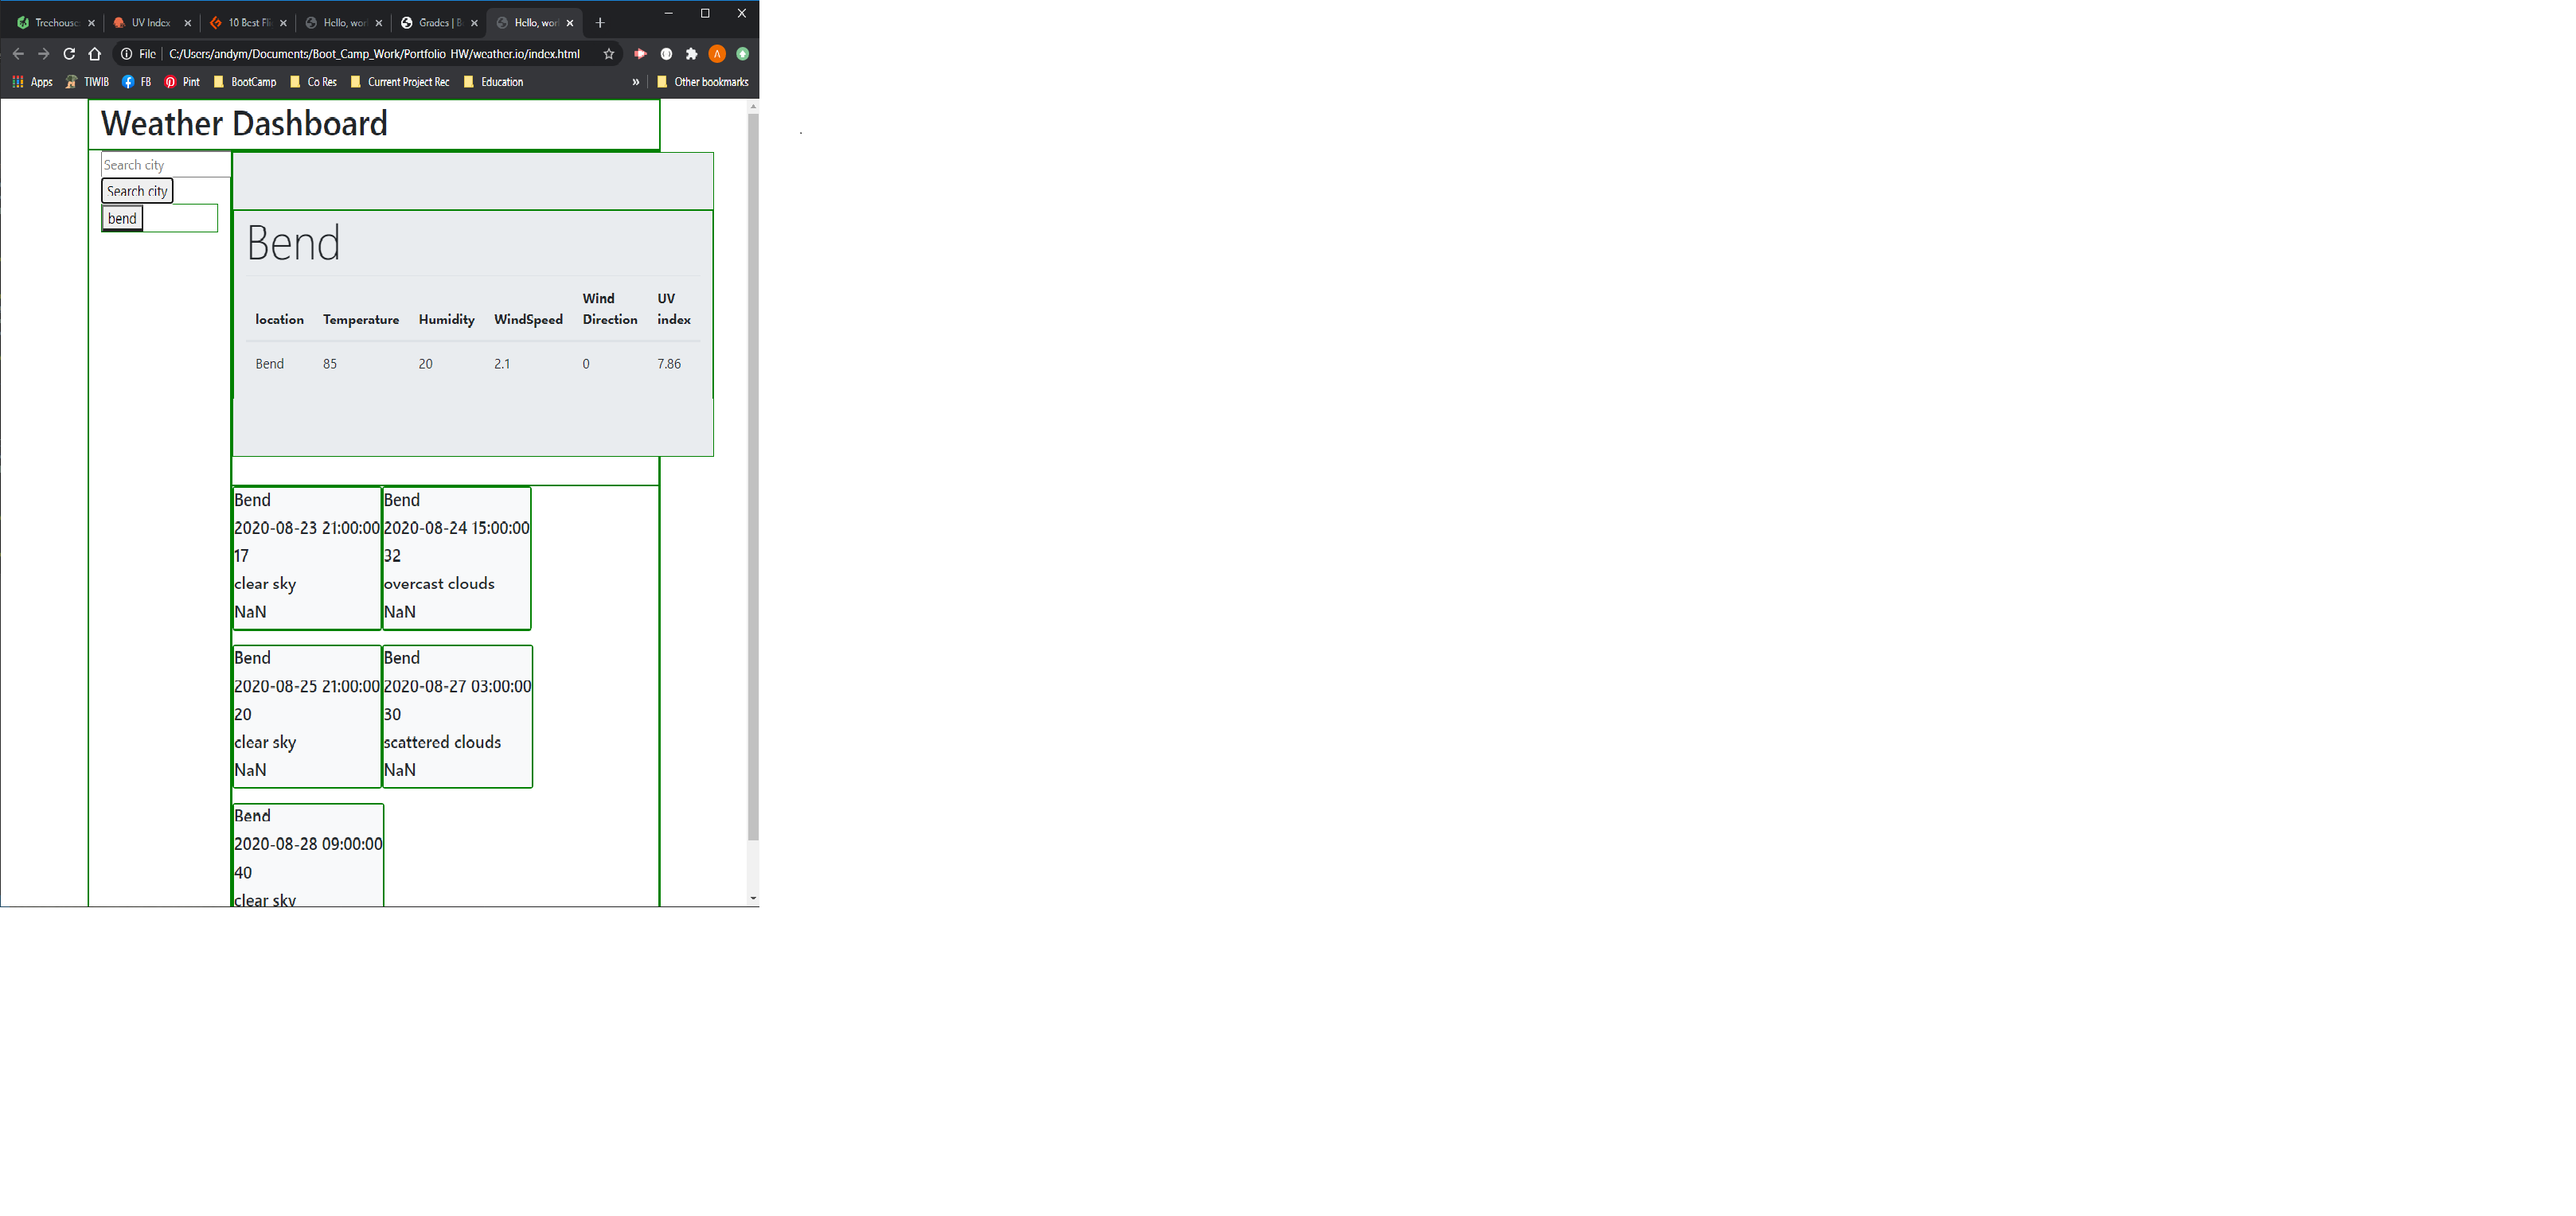
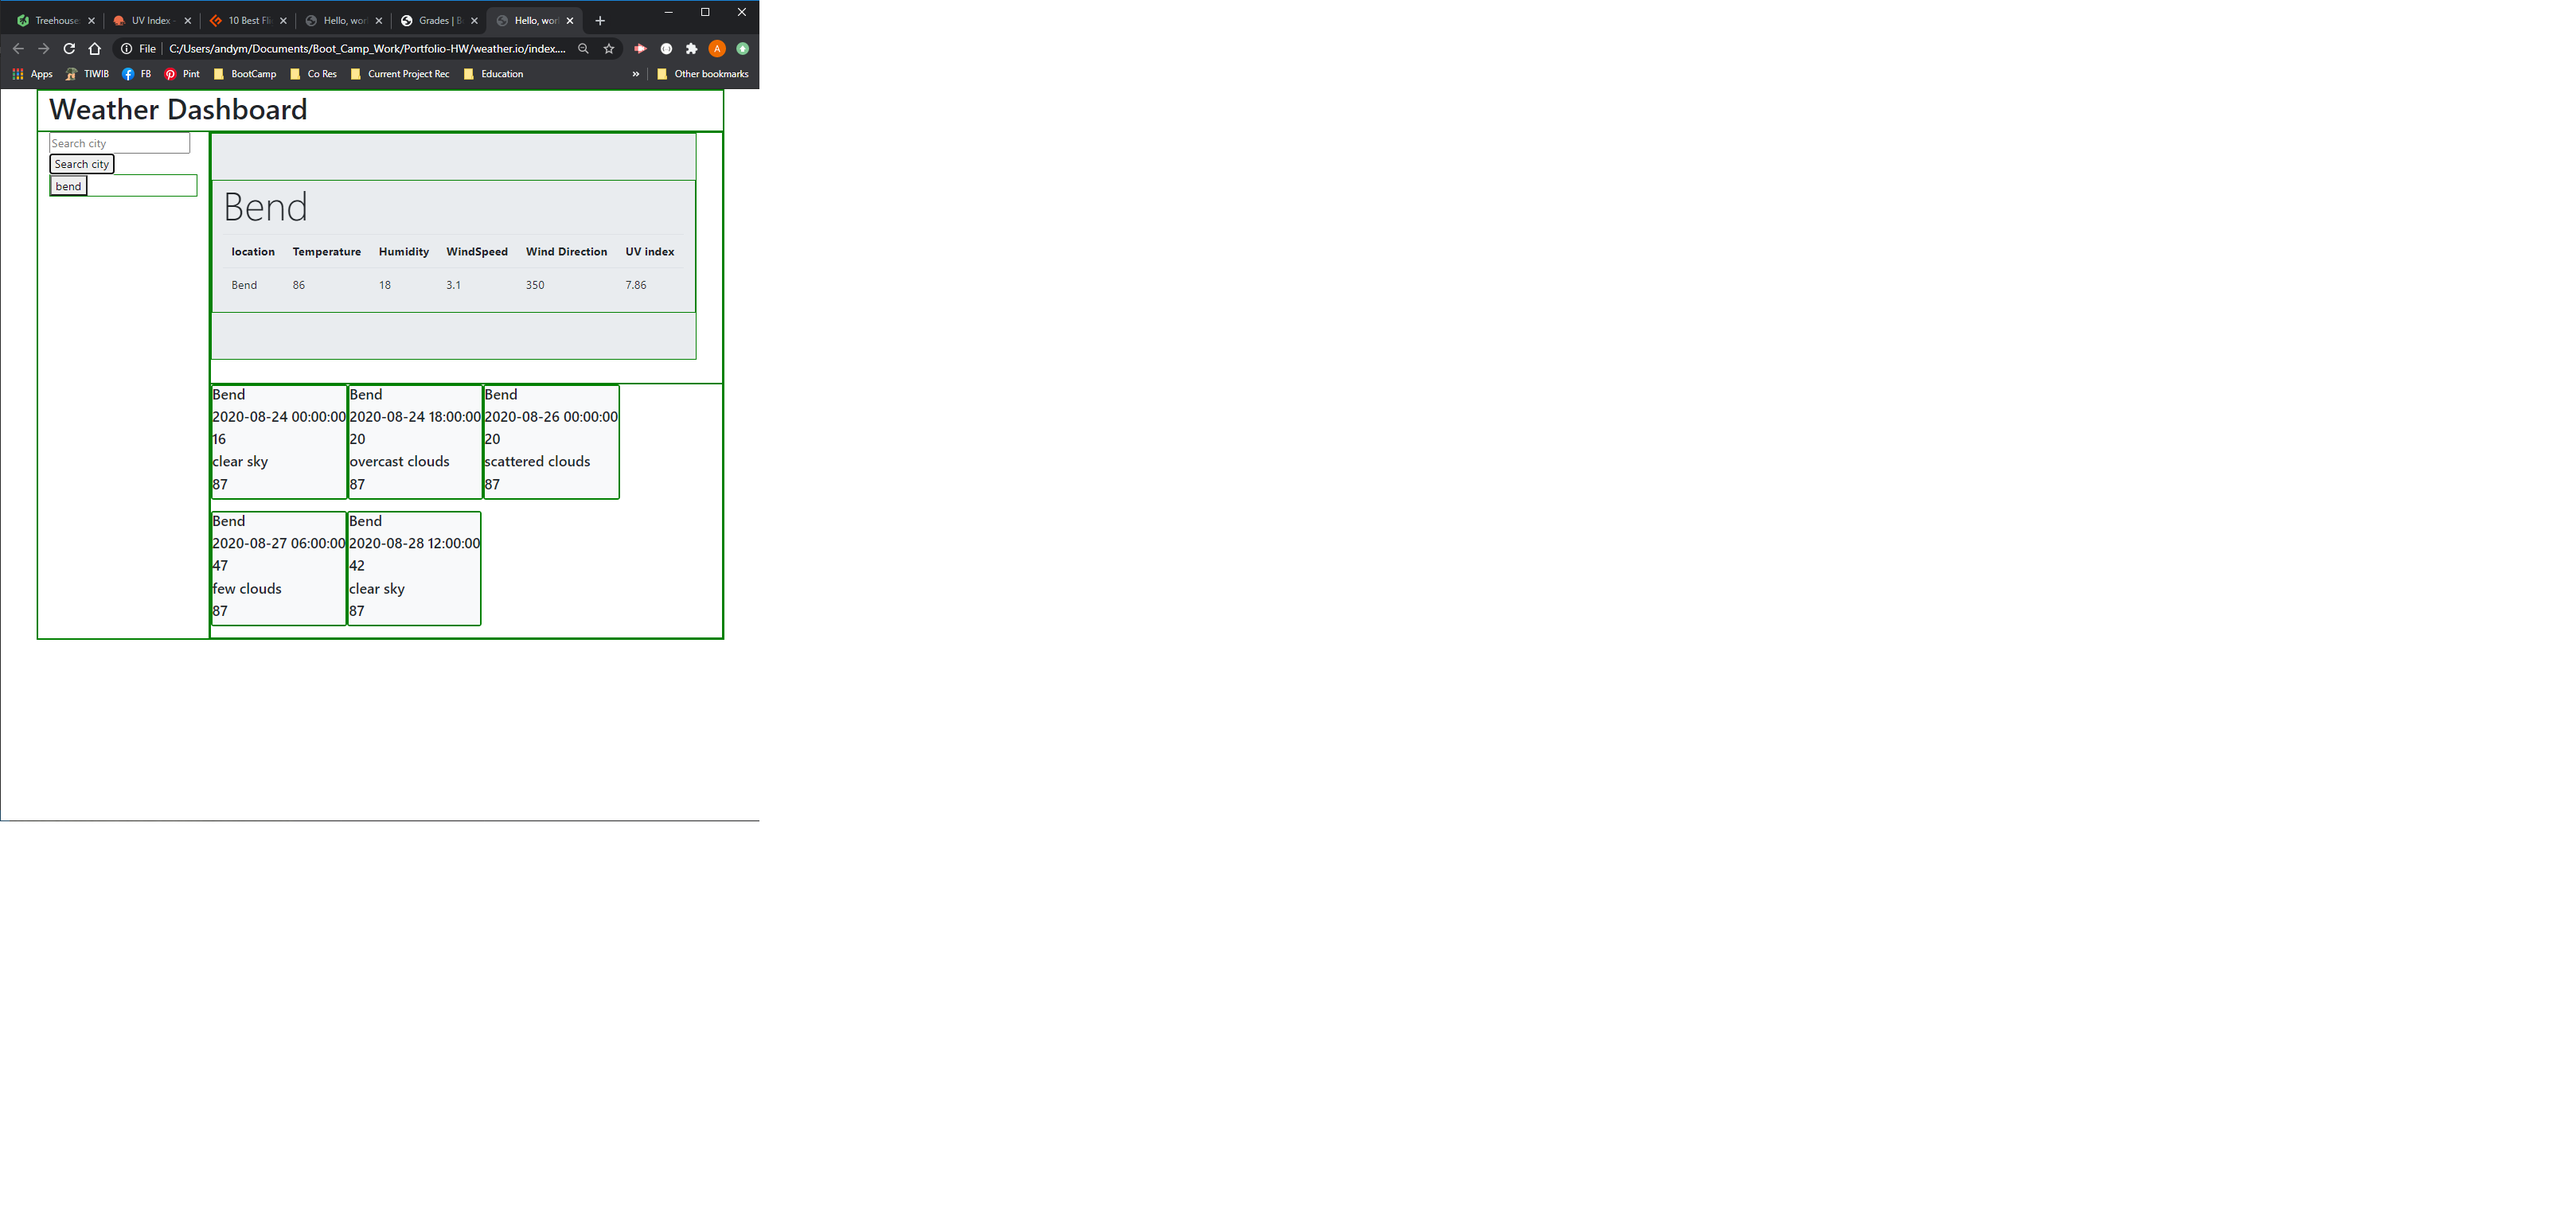
added local storage buttons still dont work

diff --git a/main.js b/main.js
@@ -1,37 +1,32 @@
 
 $(document).ready(function () {
 
+    var city;
+    var citySearchLocation = [];
 
     $(".searchBtn").on("click", function (event) {
         // Preventing the buttons default behavior when clicked (which is submitting a form)
         event.preventDefault();
         // This line grabs the input from the textbox
-        var city = $(".city-search-text").val().trim();
-        // city = "portland";
+        city = $(".city-search-text").val().trim();
         // this sets variable location to city variable of the input 
         var location = city;
         // this changes the location variable to city var in the .then function 
         location = city;
 
+        // uv index call and post
         function uvIndex(lat, lon) {
             // console.log(lat, lon);
             var queryUvURL = `https://api.openweathermap.org/data/2.5/uvi?lat=${lat}&lon=${lon}&cnt=1&APPID=79e878a8b6f5bfce841612e4037403ac`
-
             $.ajax({
                 url: queryUvURL,
                 method: "GET"
-
             }).then(function (resp3) {
-
-                console.log(resp3);
-
+                // console.log(resp3);
                 var uV = $("<td>").text(resp3.value);
-
                 $(".data-rows").append(uV)
             });
         }
-
-
 
         // forecast call
         var queryForcastURL = "http://api.openweathermap.org/data/2.5/forecast?q=" + location + "&APPID=79e878a8b6f5bfce841612e4037403ac"
@@ -41,7 +36,7 @@ $(document).ready(function () {
             method: "GET"
 
         }).then(function (resp1) {
-            console.log(resp1)
+            // console.log(resp1)
 
 
             var head5 = $(".card-body-1")
@@ -49,10 +44,10 @@ $(document).ready(function () {
             var forecastDate = $("<h5>").text(resp1.list[0].dt_txt);
             var humidity = $("<h5>").text(resp1.list[0].main.humidity);
             var clouds = $("<h5>").text(resp1.list[0].weather[0].description);
-            var temp = $("<h5>").text(parseInt(tempCalcFore));
+
             // temp conversion from K to F
             var tempCalcFore = ((resp1.list[0].main.temp) - 273) * 1.8 + 32;
-
+            var temp = $("<h5>").text(parseInt(tempCalcFore));
             // console.log(lat, lon);
             head5.append(location, forecastDate, humidity, clouds, temp)
 
@@ -71,9 +66,9 @@ $(document).ready(function () {
             var forecastDate = $("<h5>").text(resp1.list[6].dt_txt);
             var humidity = $("<h5>").text(resp1.list[6].main.humidity);
             var clouds = $("<h5>").text(resp1.list[6].weather[0].description);
+            var tempCalcFore = ((resp1.list[0].main.temp) - 273) * 1.8 + 32;
             var temp = $("<h5>").text(parseInt(tempCalcFore));
             // temp conversion from K to F
-            var tempCalcFore = ((resp1.list[0].main.temp) - 273) * 1.8 + 32;
 
             // console.log(forcastDate);
             head5.append(location, forecastDate, humidity, clouds, temp)
@@ -93,9 +88,9 @@ $(document).ready(function () {
             var forecastDate = $("<h5>").text(resp1.list[16].dt_txt);
             var humidity = $("<h5>").text(resp1.list[16].main.humidity);
             var clouds = $("<h5>").text(resp1.list[16].weather[0].description);
+            var tempCalcFore = ((resp1.list[0].main.temp) - 273) * 1.8 + 32;
             var temp = $("<h5>").text(parseInt(tempCalcFore));
             // temp conversion from K to F
-            var tempCalcFore = ((resp1.list[0].main.temp) - 273) * 1.8 + 32;
 
             // console.log(forcastDate);
 
@@ -116,9 +111,9 @@ $(document).ready(function () {
             var forecastDate = $("<h5>").text(resp1.list[26].dt_txt);
             var humidity = $("<h5>").text(resp1.list[26].main.humidity);
             var clouds = $("<h5>").text(resp1.list[26].weather[0].description);
+            var tempCalcFore = ((resp1.list[0].main.temp) - 273) * 1.8 + 32;
             var temp = $("<h5>").text(parseInt(tempCalcFore));
             // temp conversion from K to F
-            var tempCalcFore = ((resp1.list[0].main.temp) - 273) * 1.8 + 32;
 
             // console.log(forecastDate);
             head5.append(location, forecastDate, humidity, clouds, temp)
@@ -138,9 +133,10 @@ $(document).ready(function () {
             var forecastDate = $("<h5>").text(resp1.list[36].dt_txt);
             var humidity = $("<h5>").text(resp1.list[36].main.humidity);
             var clouds = $("<h5>").text(resp1.list[36].weather[0].description);
-            var temp = $("<h5>").text(parseInt(tempCalcFore));
             // temp conversion from K to F
             var tempCalcFore = ((resp1.list[0].main.temp) - 273) * 1.8 + 32;
+
+            var temp = $("<h5>").text(parseInt(tempCalcFore));
 
             // console.log(forcastDate);
             head5.append(location, forecastDate, humidity, clouds, temp)
@@ -155,7 +151,7 @@ $(document).ready(function () {
 
             // Performing GET requests
         }).then(function (resp) {
-            console.log(resp);
+            // console.log(resp);
             // Create a new table row element
             var tRow = $("<tr>").addClass("data-rows");
             // This is why we can create and save a reference to a td in the same statement we update its text
@@ -169,7 +165,6 @@ $(document).ready(function () {
             var lat = resp.coord.lat
             var lon = resp.coord.lon
             var location = $("<td>").text(resp.name);
-
             var humidityTd = $("<td>").text(resp.main.humidity);
             var windSpeedTd = $("<td>").text(resp.wind.speed);
             var windDegTd = $("<td>").text(resp.wind.deg);
@@ -184,27 +179,15 @@ $(document).ready(function () {
 
         });
 
-
-
-
-
-
-
         clear();
         // console.log(citySearchText);
-
         var citySearchText = $(".city-search-text")
-
-        console.log(location);
+        // console.log(location);
         if (city !== '') {
             searchHistBtnRend(city);
         }
-
-
-
         // return location;
-
-
+        setStorage();
     });
 
     function clear() {
@@ -215,33 +198,59 @@ $(document).ready(function () {
     }
 
     function searchHistBtnRend(city) {
+
+
         // grabbing button propigation location 
         var searchHistBtnLoc = $(".search-hist");
-
-
         // creating button element  
         var button = $("<button>");
         button.addClass("prevSerHistBtn");
-        // creating text to be 
-        //displayed on button 
+        // creating text to be displayed on button 
         button.text(city);
         // appending button to div 
         searchHistBtnLoc.append(button);
 
+    }
 
-        // var tempLocation = JSON.parse(localStorage.getItem("location"))
-        // tempLocation.push(city)
+    // $(".prevSerHistBtn").on("click", function (event) {
 
-        // localStorage.setItem("location", JSON.stringify(city))
+    //     location = button.text(localStorage);
+
+    // });
+
+    function setStorage() {
+        let locationStorage = JSON.parse(localStorage.getItem("location"));
+
+        console.log(city);
+        if (locationStorage == null) {
+            let temp = [city];
+            localStorage.setItem("location", temp)
+        }
+        else {
+            locationStorage.push(city);
+
+            localStorage.setItem("location", JSON.stringify(locationStorage))
+        }
 
     }
 
-    $(".prevSerHist").on("click", function (event) {
 
-        location = button.text(city);
+    function getStorage() {
 
-    });
+        let locationStorage = JSON.parse(localStorage.getItem("location"))
+        $(locationStorage).each(function (idx, el) {
+
+            searchHistBtnRend(locationStorage[idx]);
+
+        })
+
+
+
+    }
+
+    getStorage();
 
     // console.log(searchHistBtnRend())
+
 });
 
